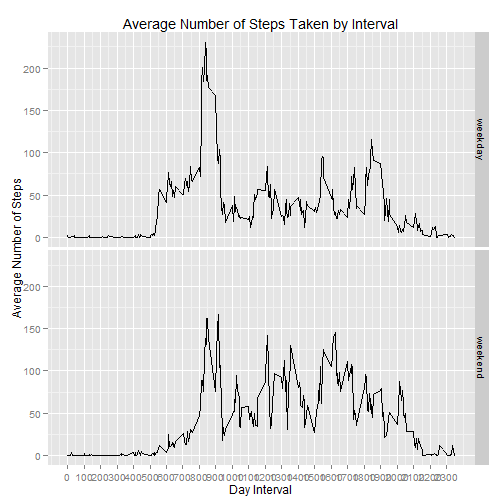
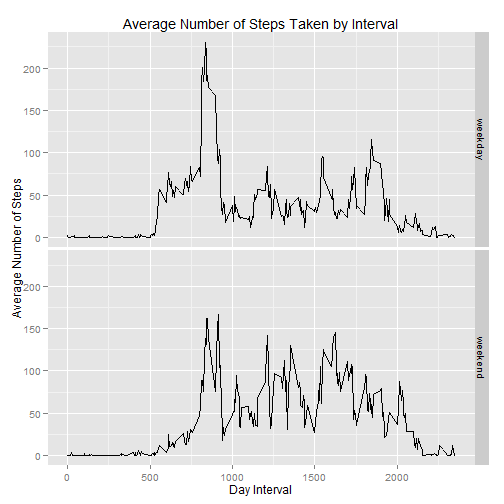
legend of graph 4

Changed region(s): [[0.4762, 0.9226, 0.7738, 0.9524], [0.1488, 0.9226, 0.4464, 0.9524], [0.8036, 0.9226, 0.9226, 0.9524]]

diff --git a/PA1_template.html b/PA1_template.html
@@ -396,13 +396,12 @@ meanStepsInterval2 &lt;- activity %.% group_by(interval, dayType) %.% summarise(
 
 
 plot2 &lt;- ggplot(data = meanStepsInterval2, mapping = aes(x = interval, y = meanSteps)) + 
-    geom_line() + facet_grid(dayType ~ .) + scale_x_continuous(&quot;Day Interval&quot;, 
-    breaks = seq(min(meanStepsInterval2$interval), max(meanStepsInterval2$interval), 
-        100)) + scale_y_continuous(&quot;Average Number of Steps&quot;) + ggtitle(&quot;Average Number of Steps Taken by Interval&quot;)
+    geom_line() + facet_grid(dayType ~ .) + scale_x_continuous(&quot;Day Interval&quot;) + 
+    scale_y_continuous(&quot;Average Number of Steps&quot;) + ggtitle(&quot;Average Number of Steps Taken by Interval&quot;)
 plot2
 </code></pre>
 
[2 lines of base64/hex data omitted]
 
 <p>In the weekdays there are more pronounced peaks and more activity earlier in the day and the activity tends to be much lower earlier in the afternoon. In the weekend, the activity is much more distributed along the day, tending to start later in the day and to last more.</p>
 

diff --git a/PA1_template.md b/PA1_template.md
@@ -276,9 +276,8 @@ meanStepsInterval2 <- activity %.% group_by(interval, dayType) %.% summarise(mea
 
 
 plot2 <- ggplot(data = meanStepsInterval2, mapping = aes(x = interval, y = meanSteps)) + 
-    geom_line() + facet_grid(dayType ~ .) + scale_x_continuous("Day Interval", 
-    breaks = seq(min(meanStepsInterval2$interval), max(meanStepsInterval2$interval), 
-        100)) + scale_y_continuous("Average Number of Steps") + ggtitle("Average Number of Steps Taken by Interval")
+    geom_line() + facet_grid(dayType ~ .) + scale_x_continuous("Day Interval") + 
+    scale_y_continuous("Average Number of Steps") + ggtitle("Average Number of Steps Taken by Interval")
 plot2
 ```
 
